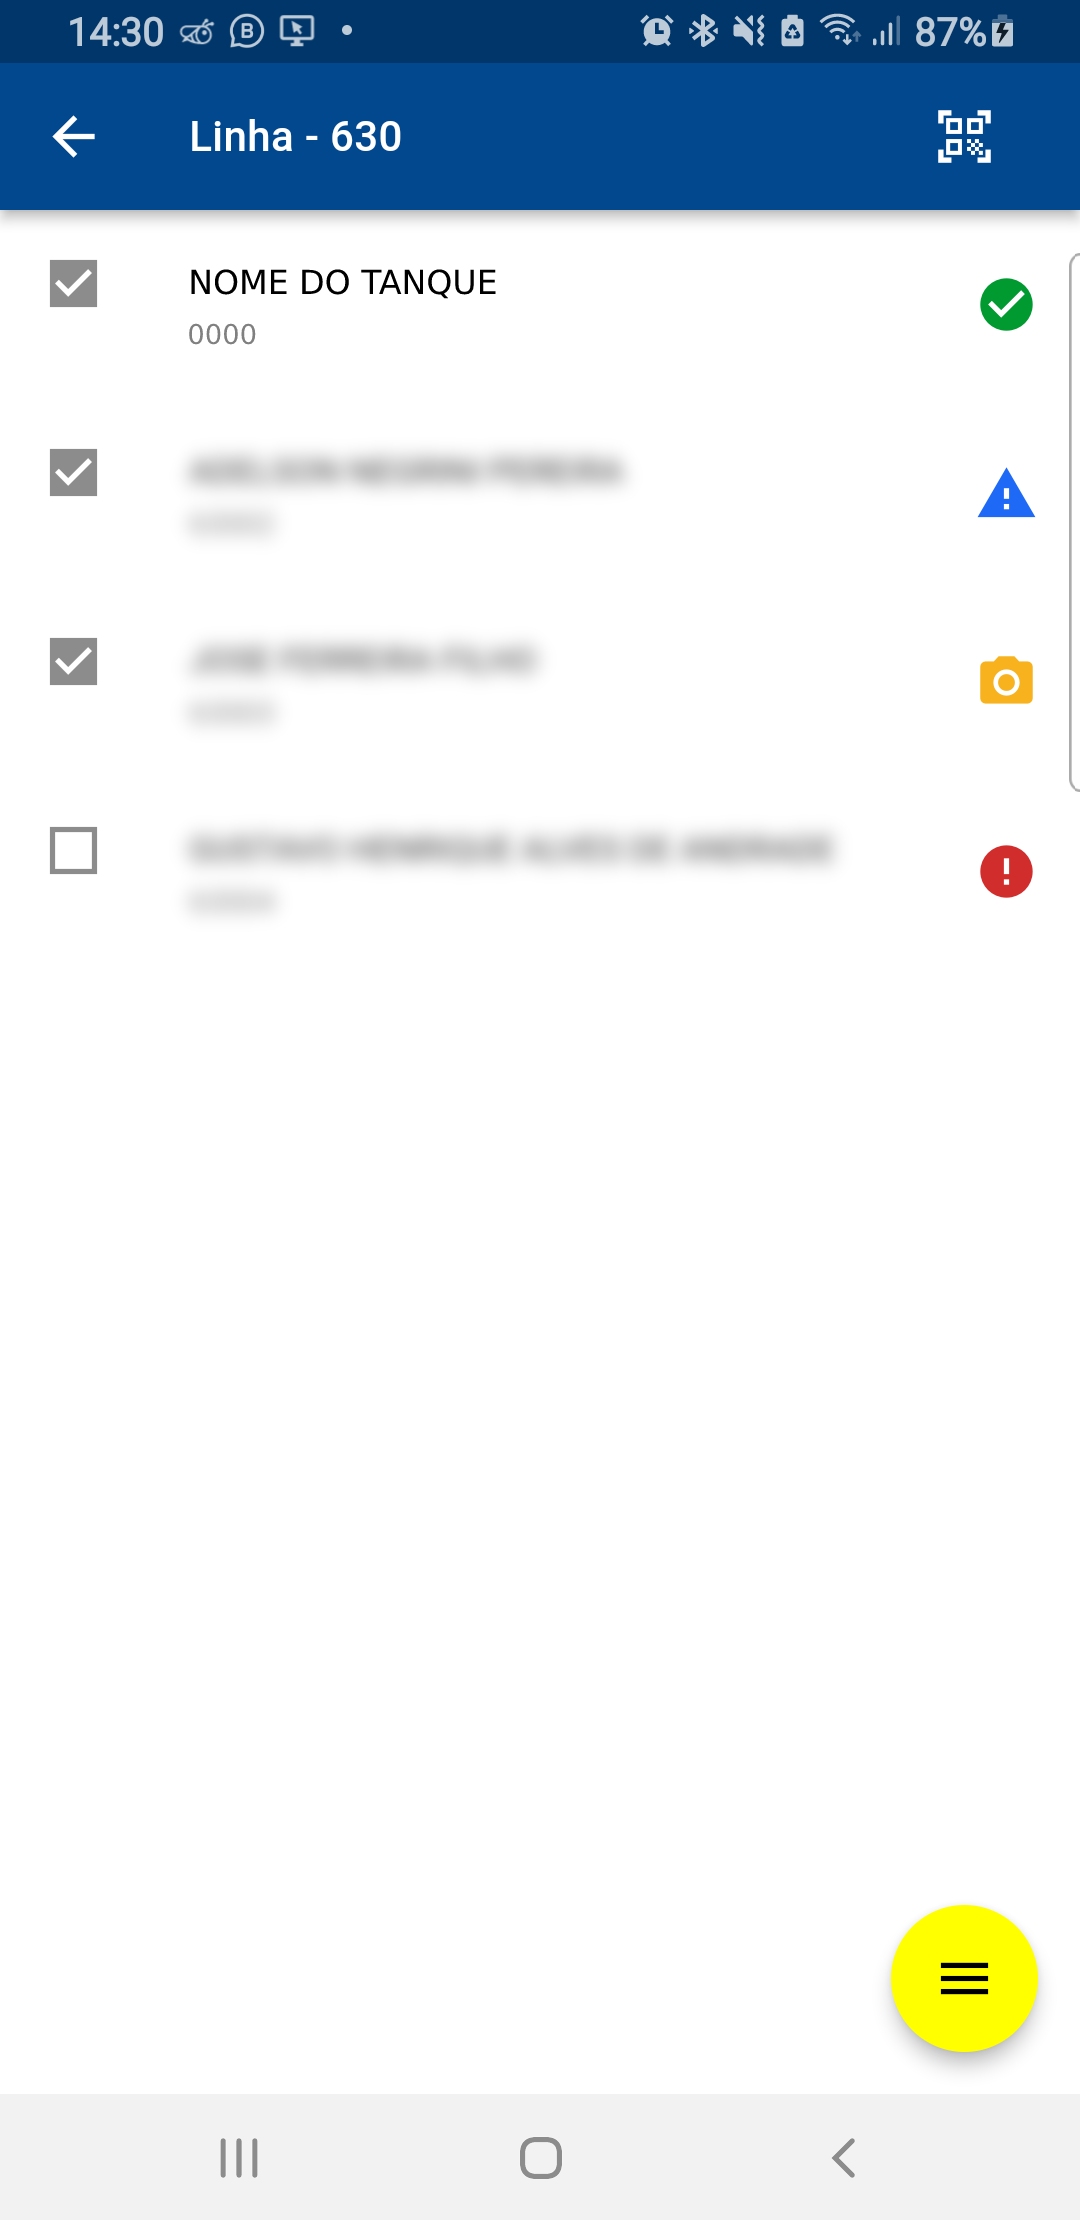
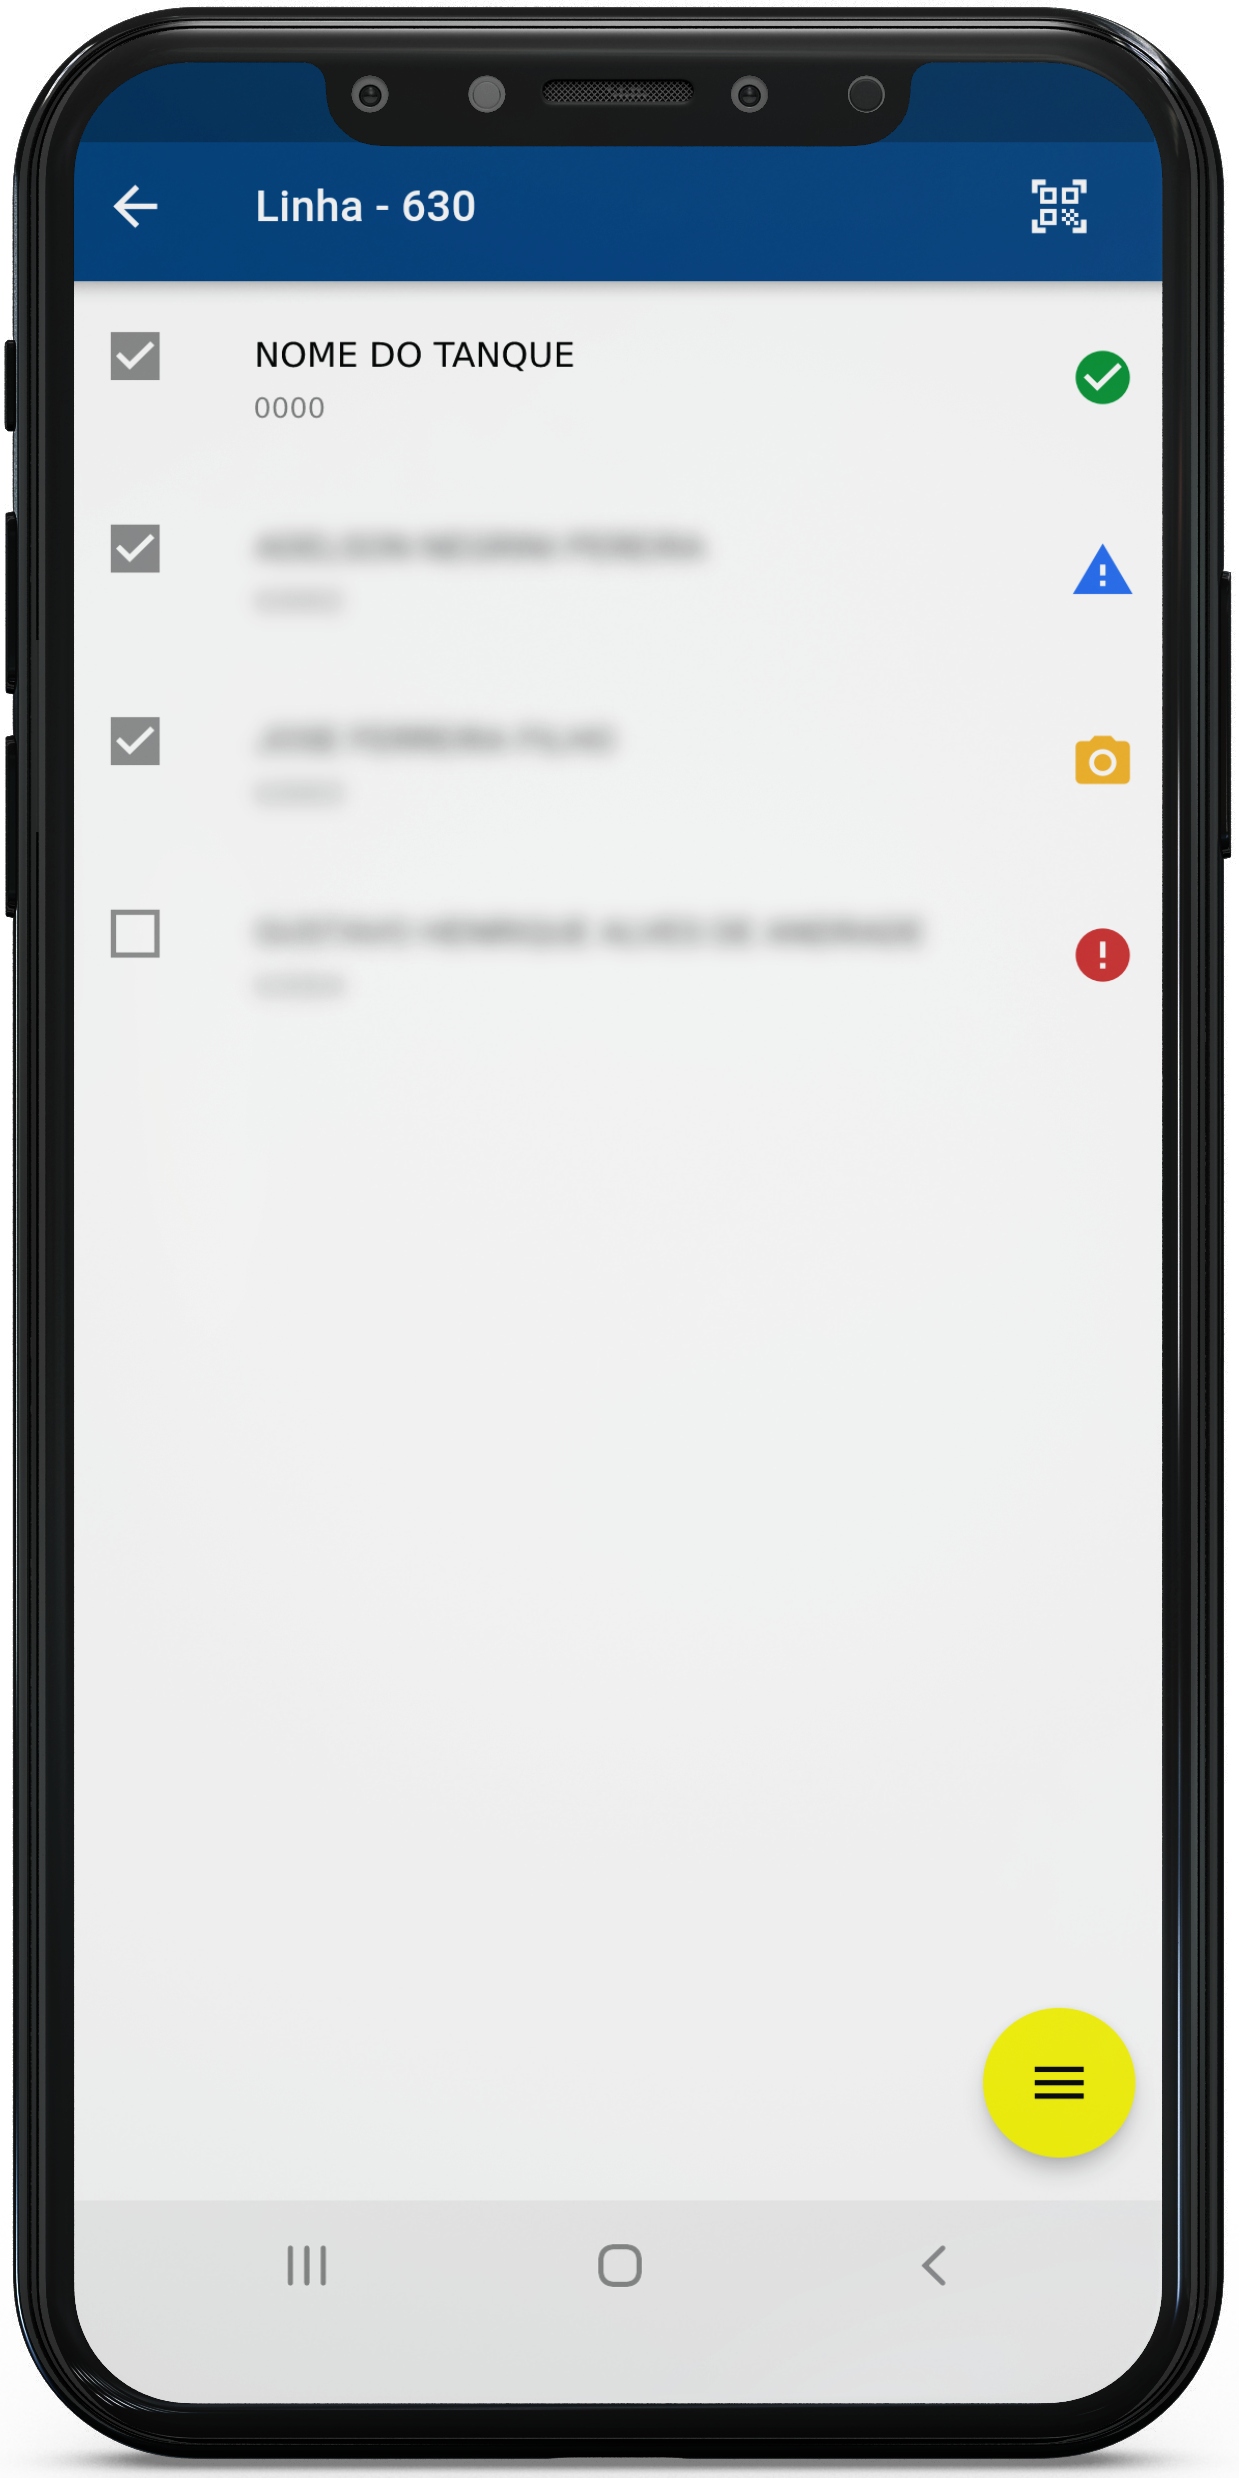
-

Changed region(s): [[0.0, 0.0, 1.0, 1.0], [0.1833, 0.2797, 0.7639, 0.4041], [0.1833, 0.2797, 0.2139, 0.3108]]

diff --git a/index.html b/index.html
@@ -27,7 +27,7 @@
 	<link id="theme-style" rel="stylesheet" href="assets/css/theme.css">
 
 
-  
+
 
 </head>
 
@@ -50,7 +50,7 @@
 
 								</span>
 
-									<!-- Coleta<span class="text-alt">Leite!</span></span> -->
+								<!-- Coleta<span class="text-alt">Leite!</span></span> -->
 							</a>
 						</div>
 					</div>
@@ -97,7 +97,7 @@
 				<nav id="docs-nav" class="docs-nav navbar">
 					<ul class="section-items list-unstyled nav flex-column pb-3">
 						<template v-for="item in data.content">
-							<li v-if="headerType(item.id) =='h1'" class="nav-item section-title mt-3">
+							<li :id="'menu-section-' + fixId(item.id)" v-if="headerType(item.id) =='h1'" class="nav-item section-title mt-3">
 								<a class="nav-link scrollto" :href="'#section-'+ fixId(item.id)">
 									<span v-if="item.icon" class="theme-icon-holder me-2">
 										<i :class="item.icon"></i>
@@ -105,7 +105,7 @@
 									{{item.title}}
 								</a>
 							</li>
-							<li v-else class="nav-item">
+							<li :id="'menu-item-' + fixId(item.id)" v-else class="nav-item">
 								<a class="nav-link scrollto" :href="'#item-'+ fixId(item.id)">{{item.title}}</a>
 							</li>
 						</template>
@@ -121,17 +121,22 @@
 
 					<article v-for="item in data.content" class="docs-article" v-bind:id="'section-' + fixId(item.id)">
 						<header class="docs-header">
-							<span class="docs-time" v-if="item.date && item.date != ''">Atualizado em: {{item.date}}</span>
 							<component :is="headerType(item.id)"
 								:class="{'docs-heading': (headerType(item.id) =='h1'), 'section-heading': (headerType(item.id) =='h2') }">
-								<span v-if="item.title" v-html="item.title"></span>
+								<i style="margin-right:15px" v-if="item.icon" class="text-primary" :class="item.icon"></i>
+								<span  v-if="item.title" v-html="item.title"></span>
 							</component>
+							<small  v-if="item.date && item.date != ''">Atualizado em: {{item.date}}
+								<br/>
+								<br/>
+							</small>
+							
 						</header>
 						<section
 							:class="{'docs-intro': (headerType(item.id) =='h1'), 'docs-section': (headerType(item.id) =='h2') }"
 							v-bind:id="'item-' + fixId(item.id)">
-							<div v-html="item.content"></div>
-						 
+							<p v-html="item.content"></p>
+
 							<figure :class="'simplelightbox-gallery-' + fixId(item.id)" class="row mb-3">
 								<div class="col-12 col-md-4 mb-3" v-if="item.lightbox" v-for="img in item.lightbox">
 									<a v-bind:href="img.image">
@@ -186,7 +191,7 @@
 								<!--//content-->
 							</div>
 
-							<div v-html="item.aftercontent"></div>
+							<p v-html="item.aftercontent"></p>
 
 						</section>
 					</article>
@@ -202,8 +207,7 @@
 			<div class="footer-bottom text-center py-5">
 
 				<ul class="social-list list-unstyled pb-4 mb-0">
-					<li v-if="data.social" v-for="soc in data.social" class="list-inline-item"><a :href="soc.url"><i
-								:class="soc.icon" class="  fa-fw"></i></a></li>
+					<li v-if="data.social" v-for="soc in data.social" class="list-inline-item"><a :href="soc.url"><i :class="soc.icon" class="  fa-fw"></i></a></li>
 				</ul>
 				<!--//social-list-->
 

diff --git a/assets/js/docs.js b/assets/js/docs.js
@@ -26,19 +26,31 @@ window.search = function (filter, keep) {
 	filter = filter.toUpperCase();
 	root = document.getElementById("app");
 	articles = root.getElementsByTagName("article");
+
+
+
 	for (i = 0; i < articles.length; i++) {
 		let article = articles[i];
 		txtValue = article.textContent || article.innerText || "";
 		var containsSearch = txtValue.toUpperCase().indexOf(filter) > -1;
+		var section = article.getElementsByTagName('section')[0];
+		var menu = document.getElementById("menu-" + article.id) || document.getElementById("menu-" + section.id) ;
+
+	 
 
 		article.style.display = '';
 		article.style.opacity = 1;
+		menu.style.display = '';
+		menu.style.opacity = 1;
+
 		if (txtValue != "")
 			if (!containsSearch) {
 				if (keep) {
 					article.style.opacity = 0.1;
+					menu.style.opacity = 0.1;
 				} else {
 					article.style.display = 'none';
+					menu.style.display = 'none';
 				}
 			}
 	}
@@ -50,8 +62,8 @@ async function getContent() {
 	var json = await getJson('content.json');
 
 	if (json.title) {
-		json.title = marked.parse(json.title ?? "");
-		json.title = parseHTML(json.title)[0].innerHTML;
+		json.title = marked.parseInline(json.title ?? "");
+
 	}
 	for (let index = 0; index < json.content.length; index++) {
 		let item = json.content[index];

diff --git a/entendendo_tanques.md b/entendendo_tanques.md
@@ -1,0 +1,19 @@
+<img src="assets/images/descricao_tanques.png" />
+
+1. Ícone de checagem do tanque.
+    - <img src='assets/images/check_preenchido.png' width='20px' />   Indica que o motorista ja passou por aquele tanque
+    - <img src='assets/images/check_vazio.png' width='20px' />  Indica que o motorista ainda passou por aquele tanque
+
+2. Nome do Tanque
+
+3. Código do Tanque
+
+4. Ícone de status do Tanque
+   
+   - <img src='assets/images/status_nao_coletado.png' width='20px' /> Indica quando um tanque não tem nenhum dado preenchido
+   
+   - <img src='assets/images/status_incompleto.png' width='20px' /> indica quando apenas uma parte dos dados de um tanque foram preenchidos
+   
+   - <img src='assets/images/status_ok.png' width='20px' /> Indica quando uma coleta em um tanque foi totalmente preenchida
+   
+   - <img src='assets/images/status_problema_coleta.png' width='20px' /> Indica quando não foi possível realizar uma coleta e uma foto da ocasião foi tirada
